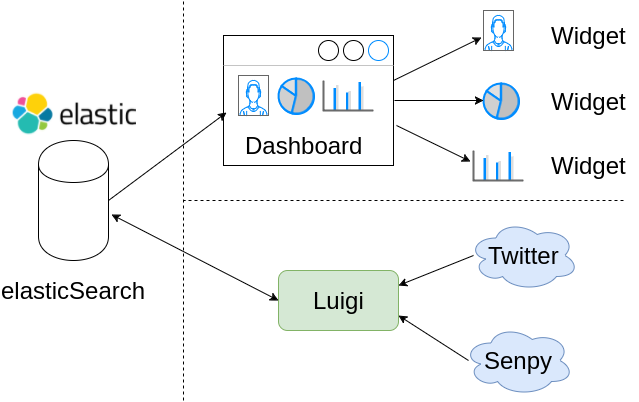
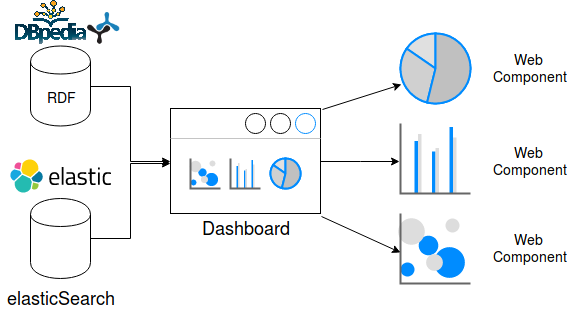
docs updates

diff --git a/docs/conf.py b/docs/conf.py
@@ -52,7 +52,7 @@ master_doc = 'index'
 
 # General information about the project.
 project = u'Sefarad'
-copyright = u'2017, A. Pascual Saavedra'
+copyright = u'2018, A. Pascual Saavedra'
 
 # The version info for the project you're documenting, acts as replacement for
 # |version| and |release|, also used in various other places throughout the

diff --git a/docs/widgets.rst b/docs/widgets.rst
@@ -1,14 +1,78 @@
-Web Components
-==============
+Sefarad widgets
+===============
 
-Web components are a set of web platform APIs that allow you to create new custom, reusable, encapsulated HTML tags to use in web pages and web apps. Custom components and widgets build on the Web Component standards, will work across modern browsers, and can be used with any JavaScript library or framework that works with HTML.
+Sefarad widgets are based in web components. This web components are a set of web platform APIs that allow you to create new custom, reusable, encapsulated HTML tags to use in web pages and web apps. Custom components and widgets build on the Web Component standards, will work across modern browsers, and can be used with any JavaScript library or framework that works with HTML.
 
 Web components are based on existing web standards. Features to support web components are currently being added to the HTML and DOM specs, letting web developers easily extend HTML with new elements with encapsulated styling and custom behavior.
 
-Web Components library
+Sefarad widget library
 ~~~~~~~~~~~~~~~~~~~~~~
 
-In Sefarad we have prebuilt Web Components in https://lab.cluster.gsi.dit.upm.es/sefarad/ website. Here we can find a collection of elements made by the  GSI-UPM team.
+In Sefarad we have prebuilt widgets developed by the GSI-UPM team:
+
+* **Field-chart**:
+ Widget designed to study sentiments present in elasticsearch document and visualize sentiment evolution over time. 
+ X-axis describes time and Y-axis shows sentiment polarity evolution for each lapse of time. This web component obtains data from an elasticSearch index. 
+
+ For more information visit field-chart repository on GitLab http://lab.cluster.gsi.dit.upm.es/sefarad/field-chart
+
+
+* **Chernoff-faces**: 
+ Widget designed to study sentiments present in elasticsearch document and visualize sentiment in chernoff faces.
+ This web component obtains data from an elasticSearch index.
+
+ For more information visit chernoff-faces repository on GitLab http://lab.cluster.gsi.dit.upm.es/sefarad/chernoff-faces
+
+
+* **Number-chart**:
+ Widget designed to show the size of results in an elasticsearch index.
+
+ For more information visit number-chart repository on GitLab http://lab.cluster.gsi.dit.upm.es/sefarad/number-chart
+
+
+* **Google-chart-elasticsearch**:
+ Widget designed to visualize data with Google Charts but obtaining data from an elasticSearch index.
+
+ For more information visit google-chart-elasticsearch repository on GitLab http://lab.cluster.gsi.dit.upm.es/sefarad/google-chart-elasticsearch
+
+* **Liquid-fluid-d3**:
+ Widget designed to show pergentage values with animation. This wigdet is developed using D3 for animations.
+
+ For more information visit Liquid-fluid-d3 repository on GitLab http://lab.cluster.gsi.dit.upm.es/sefarad/liquid-fluid-d3
+
+* **Material-search**:
+ Searchbox designed to make queries to other web components. The query parameter is auto updated with the searchbox.
+
+ For more information visit material-search repository on GitLab http://lab.cluster.gsi.dit.upm.es/sefarad/material-search
+
+* **Spain-chart**:
+ Widget designed to study sentiments and emotions present in Tweets and geolocate them in a map of Spain. In sentiment mode each province is coloured with the predominant sentiment: green means positive, grey neutral, red negative and dark grey means there is no data available for that province. In emotion mode each province is coloured also but with the predominant emotion: red means anger, purple disgust, green negative-fear, yellow joy, grey neutral and sadness blue. This web component obtains data from an elasticSearch index.
+
+ For more information visit spain-chart repository on GitLab http://lab.cluster.gsi.dit.upm.es/sefarad/spain-chart
+
+* **Spider-chart**:
+ Widget designed to study categories present in Tweets. The axis in radar describes each category. This web component obtains data from an elasticSearch index.
+
+ For more information visit spider-chart repository on GitLab http://lab.cluster.gsi.dit.upm.es/sefarad/spider-chart
+
+* **Tweet-chart**:
+ Widget designed to visualize Tweets and visualize each Tweet sentiment. Tweet background is coloured green if tweet's text is posive, red if it is negative or grey if neutral. This web component obtains data from an elasticSearch index.
+
+ For more information visit tweet-chart repository on GitLab http://lab.cluster.gsi.dit.upm.es/sefarad/tweet-chart
+
+* **Wheel-chart**:
+ Widget designed to show entities and navigate through them.
+
+ For more information visit wheel-chart repository on GitLab http://lab.cluster.gsi.dit.upm.es/sefarad/wheel-chart
+
+* Yasgui
+* Reviews-table
+* Entities-chart
+* Happymap
+* Date-slider
+* Aspect-chart
+* People-chart
+* Wordcloud
 
 There is also an Online Web Components library `here <https://www.webcomponents.org/>`_.
 
@@ -26,8 +90,8 @@ Afterwards, you have to create a new file called ``myweb-component.html``. If yo
 
 .. sourcecode:: html
 
-	<link rel="import" href="../polymer/polymer.html">
-	<link rel="import" href="../iron-icons/iron-icons.html">
+	<link rel="import" href="/bower_components/polymer/polymer.html">
+	<link rel="import" href="/bower_components/iron-icons/iron-icons.html">
 
 In addition, you have to define the structure as follows.
 
@@ -98,7 +162,7 @@ Finally, add a ``<link>`` tag in your dashboard to use your new widget inside it
 
 .. sourcecode:: html
 
-	<link rel="import" href="../myweb_component/myweb_component.html">
+	<link rel="import" href="/bower_components/myweb_component/myweb_component.html">
 
 
 Edit css if necessary.

diff --git a/docs/sefarad.rst b/docs/sefarad.rst
@@ -11,8 +11,11 @@ Sefarad environment is divided in modules, each one is focused in one concrete t
 * Visualisation, the main function of this module is to represent data which were processed and draw different charts to visualize interesting data. This visualisation is structured in several dashboards, which are web pages oriented to display all the collected information . In addition, these dashboards are divided in other components (Polymer Web Components) that globally compound the dashboard itself.
 * ElasticSearch [#f0]_, represents the persistence layer of the project and stores all the amount of data needed for the visualisation.
 
-[IMAGE DESCRIBING SEFARAD ARCHITECTURE (WEB COMPONENTS AND DASHBOARDS)]
+.. image:: images/sefarad.png
+  :scale: 100 %
+  :align: center
 
+As shown in the architecture, Serafad is also capable to retrieve semantic data from external sources, such as Fuseki or DBPedia.
 
 Dashboards
 ==========
@@ -83,29 +86,9 @@ The data used for the dashboard is the Semeval 2015 ABSA dataset (Task 12) for r
   :scale: 100 %
   :align: center
 
-GSI Crawler [#f4]_
-~~~~~~~~~~~~~~~~~~
-
-This dashboard is useful to the analysis of comments from external aplications like Amazon and Foursquare. The user will choose the type of analysis he wants to carry out (Emotions, Sentiments or Fake Analysis) and he will also supply, for instance, a direct URL to a Amazon’s Product. 
-
-GSI Crawler functionalities relies on enqueue system. The website generates a query with relevant information, such as the url, the website, the analysis type that is going to be performed etc. This parameters trigger a Luigi pipeline, which is a sequence of tasks that follow a depedency tree each other. These tasks fetch the information from the provided link, preprocess it, run the sentiment or emotion analysis using Senpy tool [#f5]_ and finally store it in elasticSearch so it can be accessed from the client.
-
-The website receives the path where the result has been saved, retrieving the information and making a query to elasticSearch to add a new card within the user interface containing the output data.
-
-.. image:: images/gsicrawler.png
-  :height: 400px
-  :scale: 100 %
-  :align: center
-
-GSICrawler tool is directly connected with a Luigi task service, adding a new task to a remote queue everytime an analysis is requested, and retrieving the result from the elasticSearch index obtained. The queue service is detailed in `Pipelines > Luigi Service <http://sefarad.readthedocs.io/en/latest/pipelines.html#luigi-service>`_ section.
-
-
 .. rubric:: References
 
 .. [#f0] http://elastic.co
 .. [#f1] Enrique Conde Sánchez. (2016). Development of a Social Media Monitoring System based on Elasticsearch and Web Components Technologies.
 .. [#f2] Alberto Pascual Saavedra. (2016). Development of a Dashboard for Sentiment Analysis of Football in Twitter based on Web Components and D3.js.
 .. [#f3] Manuel García-Amado. (2016). Development of an Aspect-based Sentiment Analyzer for the Social Web and Application to Product Reviews.
-.. [#f4] José Emilio Carmona. (2016). Development of a Social Media Crawler for Sentiment Analysis.
-.. [#f5] J. Fernando Sánchez-Rada, Carlos A. Iglesias, Ignacio Corcuera-Platas & Oscar Araque (2016). Senpy: A Pragmatic Linked Sentiment Analysis Framework. In Proceedings DSAA 2016 Special Track on Emotion and Sentiment in Intelligent Systems and Big Social Data Analysis (SentISData).
-

diff --git a/docs/installation.rst b/docs/installation.rst
@@ -27,14 +27,17 @@ Now the image is ready to run:
 
   In case of failure bringing up the project try to build the image again using sudo docker-compose build and then run it again.
 
-Sefarad visualisation server is now running at port 8080, you can check with your web browser that the dashboard has no data. The url is http://localhost:8080/demos/tourpedia
+Sefarad visualisation server is now running at port 8080, you can check with your web browser that the demos available have no data.
 
 Loading demo data to visualisation server
 ~~~~~~~~~~~~~~~~~~~~~~~~~~~~~~~~~~~~~~~~~
 
-[CALL SCRIPT TO LOAD DATA]
+Demo data is loaded to ElasticSearch via python script. In a new terminal type:
 
-Now is time to check our index in elasticsearch `here <http://localhost:9200/_cat/indices>`_ there should be a line with an index called tourpedia.
+.. code:: bash
 
-Finally, check your Sefarad visualisation environment has data reloading the http://localhost:8080/demos/tourpedia page.
+    $ docker-compose run loader load_demo.py  
 
+Now is time to check elasticsearch `here <http://localhost:9200/_cat/indices>`_ there should be list with all index available.
+
+Finally, check your Sefarad visualisation environment visiting different demos available.

diff --git a/docs/dashboards-dev.rst b/docs/dashboards-dev.rst
@@ -4,9 +4,7 @@ Developing your own dashboard
 Data structure and filter creation
 ~~~~~~~~~~~~~~~~~~~~~~~~~~~~~~~~~~
 
-Here is going to be described data structure needed for Web Components and filter creation in dashboards.
-
-[IMAGE DESCRIBING WEB COMPONENTS INSIDE DASHBOARD AND DATA BINDING]
+Here is going to be described data structure needed for Web Components and filter creation in dashboards. Elasticsearch results are stored in a javacript Object, 
 
 Dashboard development
 ~~~~~~~~~~~~~~~~~~~~~
@@ -177,7 +175,7 @@ Now run in order to install this web components:
 
 Open in your Web Browser http://localhost:8080/ to check your new Web Components in Tab 1.
 
-Once you hace all your web components ready is time to retrieve data for your web components configuring your queries to ElasticSearch. This queries are set in Polymer Javascript inside *demo-dashboard.en.html*.
+Once you hace all your web components ready is time to retrieve data for your web components configuring your queries to ElasticSearch. This queries are set in Polymer Javascript inside *demo-dashboard.env.html*.
 
 .. sourcecode:: javascript
 

diff --git a/docs/index.rst b/docs/index.rst
@@ -12,4 +12,3 @@ Contents:
    sefarad
    installation
    widgets
-   dashboards-dev
